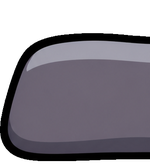
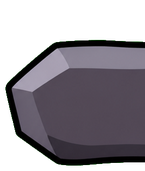
Pulsante primario gemma (WB-054), pillola della coda sotto la linea in ogni menu, schede Codex dal loro ramo (#327)
* Pillola della coda nuova sotto la linea in ogni menu; WB-054 consegnata, ritagli e prova delle tre direzioni

Claude-Session: https://claude.ai/code/session_01XmXLjmD8LDDvLAdZnP2ewS

* Pulsante primario: la gemma di WB-054; pillola della coda sotto la linea anche nello zaino e nei sigilli; schede Codex eseguite dal loro ramo

Claude-Session: https://claude.ai/code/session_01XmXLjmD8LDDvLAdZnP2ewS

---------

diff --git a/tools/grafica/fucina.py b/tools/grafica/fucina.py
@@ -398,11 +398,19 @@ def fai_menu():
         im = im.resize((w, round(im.size[1] * w / im.size[0])), Image.LANCZOS)
         salva(im, nome)
         MISURE[nome] = im.size
-    # il pulsante primario dei menu (WB-052, C · brace e gelo, Sergio 15 nov): acceso,
-    # premuto e spento, in tre parti (si allunga solo il mezzo). Alti come nel disegno
-    # rispetto all'acceso: il premuto e' piu' basso apposta
-    for stato, h in (("acceso", 200), ("premuto", 130), ("spento", 165)):
-        tre("primario_" + stato, ritaglio("WB-052", "primario_%s_1" % stato), h, 0.3)
+    # il pulsante primario dei menu: la gemma di brace di WB-054 (E, Sergio 15 nov),
+    # acceso, premuto e spento, in tre parti (si allunga solo il mezzo). Alti come nel
+    # disegno rispetto all'acceso: il premuto e' piu' basso apposta. PRIMARIO=tizzone,
+    # crosta (le altre di WB-054) o brace (la C di WB-052) per rivederne un'altra
+    scelta = os.environ.get("PRIMARIO", "gemma")
+    if scelta == "brace":
+        for stato, h in (("acceso", 200), ("premuto", 130), ("spento", 165)):
+            tre("primario_" + stato, ritaglio("WB-052", "primario_%s_1" % stato), h, 0.3)
+    else:
+        acceso_h = ritaglio("WB-054", "primario_%s_acceso" % scelta).shape[0]
+        for stato in ("acceso", "premuto", "spento"):
+            r = ritaglio("WB-054", "primario_%s_%s" % (scelta, stato))
+            tre("primario_" + stato, r, round(200 * r.shape[0] / acceso_h), 0.3)
     # le icone dei pezzi (WB-043): base e forgiata per famiglia e posto; il posto vuoto
     for f in FAMIGLIE:
         for p in POSTI:

diff --git a/docs/decisioni/interfaccia.md b/docs/decisioni/interfaccia.md
@@ -147,7 +147,7 @@ codice. Regole della roadmap: [../roadmap.md](../roadmap.md) area 21.
 
 ## Aperte
 
-- **Riorganizzazione di home, corredo, armeria, profilo, eventi e gioca online** (14 nov, Sergio). Deciso da Sergio: la sezione del diavoletto cambia nome e tiene solo INVENTARIO (etichette con linee sul corpo coi quadratini dei pezzi indossati, sotto l'inventario a quadratini filtrabile, statistiche nuove a destra) e SIGILLI; l'armeria ha lo stesso formato, l'armadio se ne va e al suo posto ci sono i potenziamenti; bottega e catalogo diventano una sola BOTTEGA (10 pezzi del giorno + 4 offerte del Fabbro scontate); i buoni del Fabbro stanno nel portafoglio dal primo; ARMERIA dalla home al posto della targhetta del diavoletto, la targhetta sopra la testa (tocca il diavoletto) e al centro sotto il filo la pillola della coda; pulsanti della home più in basso; GIOCA online dentro il lingotto; niente ombra sotto l'apprendista; un assetto per i pezzi e uno per i sigilli; STATISTICHE e CRONOLOGIA PARTITE nel profilo; EVENTI con la classifica mondiale plateale (primi 100 e i vicini), calendario e gioca; GIOCA ONLINE con tutte le modalità online del momento. Proposte (2-3 per schermata) e la consigliata a livelli veri nel Figma, sezione «RIORGANIZZAZIONE MENU · 14 nov» della pagina 3. (Claude) Nome proposto CORREDO; profilo dal tondo in alto a sinistra della home; icone dei pezzi da Codex (WB-043). Sergio (14 nov, sera) sceglie la consigliata per ogni schermata ; il nome della sezione del diavoletto è ZAINO (Sergio, 14 nov; scartati CORREDO e il nome del diavoletto); tutti i pezzi nuovi delle bozze a Codex (WB-044) e tre direzioni nuove per i pulsanti grandi della home (WB-045), che Sergio trova «troppo a cazzo di cane». Poi si rivede tutto montato nel Figma e si porta nel gioco. Pulsanti della home (Sergio, 14 nov 22:48): né A né B né C ma un misto, emblema tondo di A con coda e colori di B, senza catene; anche GIOCA online si rifà nello stesso stile, più particolare (WB-046, tre idee da scegliere). Lo scudo sta sempre verso il bordo dello schermo e al tocco trascina la schermata che si apre (Sergio, 14 nov 23:16; prova https://claude.ai/artifact/NUZURUfk3Gt2eaFpnN7roq , pezzi in WB-049). Movimento (Sergio, 23:27): parte veloce verso il bordo frenando, l'inversione al bordo è il momento più lento (quasi fermo), poi riparte accelerando; il ritorno uguale al contrario. Tutto il pulsante, coda compresa, resta attaccato al bordo della schermata come una linguetta che la trascina (Sergio, 23:29). GIOCA online: il sigillo fuso (Sergio, 23:27; scartati lama d'oro e insegna sull'incudine). Armonia degli spazi sempre e su tutto (Sergio, 23:30). Pedana del diavoletto: la griglia della forgia (WB-050 n. 4, Sergio 23:47), con lo zainetto piccolo sul ripiano; si capisce che si tocca tutto l'apprendista da tre segnali (il bordo della pedana che si accende piano ogni tanto, un riflesso di brace che corre sul suo contorno, e al tocco si schiaccia e si gira; Sergio, 23:40). Nel gioco (15 nov, Claude): GIOCA ONLINE tiene anche la coda 1 CONTRO 1 (tutte le modalità online), per ora senza icona (segnaposto); dal profilo erano usciti i momenti e il grafico a fune, ma Sergio (15 nov) vuole che le funzioni restino anche dove il Figma non ha posto: toccando una partita della cronologia si apre sotto, senza un riquadro suo, la fune giro per giro e i momenti (un tocco: il replay da lì). Sempre il 15 nov (Sergio): i pulsanti di GIOCA ONLINE sono piastre che si premono e avviano ognuno la sua coda; fra le schermate torna la tempra di fuoco e ghiaccio (la porta corre al suo bordo, la lama copre, sotto cambia la pagina) e resta solo la linguetta piatta; niente ombra tonda ai piedi dell'apprendista nei menu; INDOSSA nello zaino mette subito il pezzo addosso. Sergio sceglie dalle proposte (15 nov, https://claude.ai/artifact/3XLwcgQ67H9jBacc16g2JD): nei SIGILLI il bivio sempre in vista (sotto ogni gradino i due poteri, lo scelto chiaro e l'altro scuro, un tocco lo scambia, in basso cosa fa e l'alternativa; il punto esclamativo sui gradini raggiunti senza scelta), uno sfondo suo per ogni schermata (WB-053, le consigliate); il pulsante primario dei menu va reinventato e il sigillo fuso resta solo per GIOCA online nella home (WB-052, tre direzioni a Codex). La tendina di fuoco e ghiaccio la rifà Codex (WB-051). Poi (15 nov, Sergio) via le piastre di ferro da GIOCA ONLINE, momenti e Sigilli: tornano le carte di prima del rework (le piastre restano solo come targhe statiche e se ne andranno). La transizione con la tempra non gli piace: la coda del pulsante deve trascinarsi dentro la pagina, sfondo compreso, sopra la home ferma; il bordo della pagina è una linea arancione sottile come nella proposta, non le bande di WB-049; arrivata, la linea resta su quel bordo. Poi chiede anche la versione con la tempra (15 nov, 10:58: «è rimasta come transizione per gli altri menù»): mentre trascina, il bordo è una lama stretta coi pezzi di Codex (WB-051: rovente davanti, ferro, gelo dietro) che arrivata svanisce e lascia la linea; la tempra fra gli altri menu usa gli stessi pezzi. Provate le due (`door_pass.EDGE`), Sergio (15 nov, 11:16) tiene la tempra nuova di Codex ovunque tranne nelle quattro porte della home (CAMPAGNA, ALLENAMENTO, EVENTI, ARMERIA), che restano con la sola linea. Pulsante primario: la C di WB-052 (brace e gelo) in tutti i menu al posto del lingotto; Sergio vuole comunque altre tre proposte (WB-054: tizzone, gemma, crosta di lava). Sfondi di WB-053 nel gioco: ognuna delle otto schermate ha il suo (stanza privata e sala d'attesa quello di gioca online); la home tiene il posto della campagna. La pillola della coda nella home torna come nella proposta: al centro sotto il filo, guscio con il pallino rovente e la scritta; toccandola si torna alla sala. Ritocchi delle porte (Sergio, 15 nov, 11:28): all'andata la porta non si stacca dalla linea, la accompagna fino alla fine ed esce dal bordo dello schermo proprio mentre la linea arriva; al ritorno la porta spinge fuori la pagina e quando arriva al suo posto resta lì, con un piccolo rimbalzo verso il bordo, e la pagina va avanti da sola fino al bordo. Sopra ogni sfondo dei menu, home compresa, un velo scuro leggero (colore 0,8) perché lo sfondo non rubi la scena (Sergio, 15 nov, 11:35).
+- **Riorganizzazione di home, corredo, armeria, profilo, eventi e gioca online** (14 nov, Sergio). Deciso da Sergio: la sezione del diavoletto cambia nome e tiene solo INVENTARIO (etichette con linee sul corpo coi quadratini dei pezzi indossati, sotto l'inventario a quadratini filtrabile, statistiche nuove a destra) e SIGILLI; l'armeria ha lo stesso formato, l'armadio se ne va e al suo posto ci sono i potenziamenti; bottega e catalogo diventano una sola BOTTEGA (10 pezzi del giorno + 4 offerte del Fabbro scontate); i buoni del Fabbro stanno nel portafoglio dal primo; ARMERIA dalla home al posto della targhetta del diavoletto, la targhetta sopra la testa (tocca il diavoletto) e al centro sotto il filo la pillola della coda; pulsanti della home più in basso; GIOCA online dentro il lingotto; niente ombra sotto l'apprendista; un assetto per i pezzi e uno per i sigilli; STATISTICHE e CRONOLOGIA PARTITE nel profilo; EVENTI con la classifica mondiale plateale (primi 100 e i vicini), calendario e gioca; GIOCA ONLINE con tutte le modalità online del momento. Proposte (2-3 per schermata) e la consigliata a livelli veri nel Figma, sezione «RIORGANIZZAZIONE MENU · 14 nov» della pagina 3. (Claude) Nome proposto CORREDO; profilo dal tondo in alto a sinistra della home; icone dei pezzi da Codex (WB-043). Sergio (14 nov, sera) sceglie la consigliata per ogni schermata ; il nome della sezione del diavoletto è ZAINO (Sergio, 14 nov; scartati CORREDO e il nome del diavoletto); tutti i pezzi nuovi delle bozze a Codex (WB-044) e tre direzioni nuove per i pulsanti grandi della home (WB-045), che Sergio trova «troppo a cazzo di cane». Poi si rivede tutto montato nel Figma e si porta nel gioco. Pulsanti della home (Sergio, 14 nov 22:48): né A né B né C ma un misto, emblema tondo di A con coda e colori di B, senza catene; anche GIOCA online si rifà nello stesso stile, più particolare (WB-046, tre idee da scegliere). Lo scudo sta sempre verso il bordo dello schermo e al tocco trascina la schermata che si apre (Sergio, 14 nov 23:16; prova https://claude.ai/artifact/NUZURUfk3Gt2eaFpnN7roq , pezzi in WB-049). Movimento (Sergio, 23:27): parte veloce verso il bordo frenando, l'inversione al bordo è il momento più lento (quasi fermo), poi riparte accelerando; il ritorno uguale al contrario. Tutto il pulsante, coda compresa, resta attaccato al bordo della schermata come una linguetta che la trascina (Sergio, 23:29). GIOCA online: il sigillo fuso (Sergio, 23:27; scartati lama d'oro e insegna sull'incudine). Armonia degli spazi sempre e su tutto (Sergio, 23:30). Pedana del diavoletto: la griglia della forgia (WB-050 n. 4, Sergio 23:47), con lo zainetto piccolo sul ripiano; si capisce che si tocca tutto l'apprendista da tre segnali (il bordo della pedana che si accende piano ogni tanto, un riflesso di brace che corre sul suo contorno, e al tocco si schiaccia e si gira; Sergio, 23:40). Nel gioco (15 nov, Claude): GIOCA ONLINE tiene anche la coda 1 CONTRO 1 (tutte le modalità online), per ora senza icona (segnaposto); dal profilo erano usciti i momenti e il grafico a fune, ma Sergio (15 nov) vuole che le funzioni restino anche dove il Figma non ha posto: toccando una partita della cronologia si apre sotto, senza un riquadro suo, la fune giro per giro e i momenti (un tocco: il replay da lì). Sempre il 15 nov (Sergio): i pulsanti di GIOCA ONLINE sono piastre che si premono e avviano ognuno la sua coda; fra le schermate torna la tempra di fuoco e ghiaccio (la porta corre al suo bordo, la lama copre, sotto cambia la pagina) e resta solo la linguetta piatta; niente ombra tonda ai piedi dell'apprendista nei menu; INDOSSA nello zaino mette subito il pezzo addosso. Sergio sceglie dalle proposte (15 nov, https://claude.ai/artifact/3XLwcgQ67H9jBacc16g2JD): nei SIGILLI il bivio sempre in vista (sotto ogni gradino i due poteri, lo scelto chiaro e l'altro scuro, un tocco lo scambia, in basso cosa fa e l'alternativa; il punto esclamativo sui gradini raggiunti senza scelta), uno sfondo suo per ogni schermata (WB-053, le consigliate); il pulsante primario dei menu va reinventato e il sigillo fuso resta solo per GIOCA online nella home (WB-052, tre direzioni a Codex). La tendina di fuoco e ghiaccio la rifà Codex (WB-051). Poi (15 nov, Sergio) via le piastre di ferro da GIOCA ONLINE, momenti e Sigilli: tornano le carte di prima del rework (le piastre restano solo come targhe statiche e se ne andranno). La transizione con la tempra non gli piace: la coda del pulsante deve trascinarsi dentro la pagina, sfondo compreso, sopra la home ferma; il bordo della pagina è una linea arancione sottile come nella proposta, non le bande di WB-049; arrivata, la linea resta su quel bordo. Poi chiede anche la versione con la tempra (15 nov, 10:58: «è rimasta come transizione per gli altri menù»): mentre trascina, il bordo è una lama stretta coi pezzi di Codex (WB-051: rovente davanti, ferro, gelo dietro) che arrivata svanisce e lascia la linea; la tempra fra gli altri menu usa gli stessi pezzi. Provate le due (`door_pass.EDGE`), Sergio (15 nov, 11:16) tiene la tempra nuova di Codex ovunque tranne nelle quattro porte della home (CAMPAGNA, ALLENAMENTO, EVENTI, ARMERIA), che restano con la sola linea. Pulsante primario: la C di WB-052 (brace e gelo) in tutti i menu al posto del lingotto; Sergio vuole comunque altre tre proposte (WB-054: tizzone, gemma, crosta di lava). Sfondi di WB-053 nel gioco: ognuna delle otto schermate ha il suo (stanza privata e sala d'attesa quello di gioca online); la home tiene il posto della campagna. La pillola della coda nella home torna come nella proposta: al centro sotto il filo, guscio con il pallino rovente e la scritta; toccandola si torna alla sala. Ritocchi delle porte (Sergio, 15 nov, 11:28): all'andata la porta non si stacca dalla linea, la accompagna fino alla fine ed esce dal bordo dello schermo proprio mentre la linea arriva; al ritorno la porta spinge fuori la pagina e quando arriva al suo posto resta lì, con un piccolo rimbalzo verso il bordo, e la pagina va avanti da sola fino al bordo. Sopra ogni sfondo dei menu, home compresa, un velo scuro leggero (colore 0,8) perché lo sfondo non rubi la scena (Sergio, 15 nov, 11:35). Pulsante primario (Sergio, 15 nov, 12:34): fra le tre direzioni di WB-054 sceglie la E · gemma di brace, che prende il posto della C di WB-052 in tutti i menu. Pillola della coda (Sergio, 15 nov, 12:20: «sempre quella nuova e sempre nella posizione nuova sotto la linea»): in ogni menu c'è la stessa pillola della home in versione corta (pallino rovente e tempo), sotto la linea un po' a sinistra del centro; mentre sei in coda, le righe in basso di zaino e sigilli vanno a capo a sinistra della pillola (Sergio d'accordo, 12:34). Schede Codex (Sergio, 15 nov, 12:36): Codex le esegue dal ramo da cui arrivano, non serve portarle su main.
 
 - **Sfondi dei menu con profondità** (12 nov, Sergio: gli sfondi a linee di WB-023/025 sono «molto cheap», non coerenti coi pezzi; vuole profondità, uno stile «più premium» e coerenza con la storia, proposte fatte dopo aver studiato come si fanno nei giochi mobile). Proposte in https://claude.ai/artifact/8Vtj3sQas5mHQry8eD7Myo (sorgenti in `/mnt/project-files/sfondi_premium/`): ogni menu è un posto della storia (soglia della Forgia, banco del Fabbro, orlo del pozzo, Cortile...), tre piani senza contorni neri, fornace in basso a sinistra e gelo di Lucifero che entra dall'alto a destra. Tre strade: A dipinto a strati (consigliata da Claude), B teatro di carta, C solo luce. Prova di stile a Codex: WB-027 (approvata da Claude, quattro immagini, non entra nel gioco). Sceglie Sergio. **12 nov, dopo WB-027:** Sergio sceglie lo sfondo dei gironi come modello («è molto bello quello») e vuole meno dettagli nella home («il centro di attenzione diventa quell'incudine»): niente oggetti, solo grandi masse ai lati, centro vuoto; strada B scartata. Tutte le altre schermate rifatte così con WB-028. **Approvati** (Sergio, 12 nov: «ok, mi piace») gli otto sfondi di WB-028 più quello dei gironi, e i riflessi che ogni tanto corrono sui bordi di luce («con poca frequenza, ma li renderebbe più vivi»). Restano da montare nel gioco (thread dell'interfaccia).
 

diff --git a/docs/handoff/WB-054_pulsante_primario_altre_proposte.md b/docs/handoff/WB-054_pulsante_primario_altre_proposte.md
@@ -1,6 +1,6 @@
 # WB-054 · Altre tre direzioni per il pulsante primario dei menu
 
-- **Stato:** APPROVATA (Sergio, 15 nov 11:10: «Per i pulsanti primari, va bene quello che ho scelto, integralo, però voglio delle altre proposte con codex»)
+- **Stato:** CONSEGNATA E INTEGRATA (Sergio, 15 nov 12:34: sceglie E · gemma)
 - **Data:** 2026-11-15
 - **Ramo della scheda:** `main` · **Ramo delle immagini:** `design/WB-054`
 - **Autorizzato:** pubblica PNG, prompt e scheda sul ramo `design/WB-054` senza chiedere conferma (il repository è privato).
@@ -114,3 +114,10 @@ Thick black ink outline on every piece, cartoon comic style like images 2 and 3.
 ## Decisione
 
 Reversibile (solo immagini in un ramo): approvata su richiesta di Sergio.
+
+## Resoconto di Claude
+
+- Arrivati i sei fogli (due varianti per direzione), tutti puliti: acceso, premuto e spento ben staccati, sfondo verde pieno, niente scritte.
+- Ritagliati `primario_tizzone_2`, `primario_gemma_2` e `primario_crosta_1` (le varianti con le proporzioni più vicine a tre e mezzo per uno) in `art/WB-054/ritagli/`.
+- Montati nel gioco vero accanto alla C di WB-052 su armeria, zaino e gioca online (`/mnt/project-files/menu_14nov/WB-054_confronto_primari.png`).
+- Sergio sceglie la **E · gemma**: ora è il pulsante primario di tutti i menu (`tools/grafica/fucina.py`; `PRIMARIO=tizzone`, `crosta` o `brace` per rivedere le altre).

diff --git a/CLAUDE.md b/CLAUDE.md
@@ -270,8 +270,8 @@ lanciato prima, se no in una PR subito dopo).
 Le immagini le genera Codex (ChatGPT) sul PC di Sergio, dai prompt che scrive Claude: niente
 copia e incolla. Claude scrive una scheda in [docs/handoff/](docs/handoff/README.md) dal
 [modello](docs/handoff/MODELLO.md), con ogni prompt completo, i riferimenti e i nomi dei file;
-la approva se è reversibile (altrimenti chiede a Sergio) e la porta su `main` (solo
-documenti e riferimenti, così Codex la trova). Codex la esegue
+la approva se è reversibile (altrimenti chiede a Sergio), fa il push sul suo ramo e dice
+a Sergio il nome del ramo: Codex la esegue da lì, non serve portarla su `main` (Sergio, 15 nov). Codex la esegue
 seguendo [AGENTS.md](AGENTS.md) e fa il push sul ramo `design/WB-xxx`. Poi Claude fa
 `git fetch origin`, guarda ogni immagine in `art/WB-xxx/`, scarta quelle con difetti visibili,
 integra le buone, gira la simulazione e scrive il "Resoconto di Claude". Le decisioni prese da

diff --git a/AGENTS.md b/AGENTS.md
@@ -14,8 +14,11 @@ Sergio ti dice solo quale scheda eseguire (es. "esegui WB-001").
 
 ## Come esegui una scheda
 
-1. Aggiorna `main` (`git checkout main` e `git pull`) e prendi lì la scheda; se Sergio
-   ti indica un altro ramo, usa quello. Eseguila solo se lo stato è APPROVATA.
+1. Esegui la scheda dal ramo da cui arriva, che non è per forza `main` (Sergio, 15 nov:
+   di solito è ancora una prova). Il ramo è scritto in testa alla scheda («Ramo della
+   scheda») o te lo dice Sergio: `git fetch origin <ramo>` e `git checkout <ramo>`. Se non
+   lo sai, cercalo: `git fetch origin` e `git log --all --oneline -- "docs/handoff/WB-xxx*"`.
+   Eseguila solo se lo stato è APPROVATA.
    **Se la scheda non ha la fase o le immagini che ti chiedono** (per esempio "fase 3" e nella
    tabella non ci sono righe di fase 3), fermati: non improvvisare e non fare il lavoro di
    Claude (ricalchi, script, editor). Scrivi nella consegna cosa mancava e fai solo il push.

diff --git a/docs/handoff/README.md b/docs/handoff/README.md
@@ -11,7 +11,8 @@ copiata da [MODELLO.md](MODELLO.md). Le regole di Codex sono in [AGENTS.md](../.
    Stato PROPOSTA.
 2. **Si decide**: Claude approva da solo le schede ragionevoli e reversibili (e lo scrive),
    le altre le decide Sergio. Stato APPROVATA. Claude fa il commit e il push della scheda.
-3. **Codex genera**: Sergio gli dice "esegui WB-xxx". Codex genera tutto in `art/WB-xxx/`,
+3. **Codex genera**: Sergio gli dice "esegui WB-xxx" (e il ramo della scheda: Codex la
+   prende da lì, non serve che sia su `main`, Sergio 15 nov). Codex genera tutto in `art/WB-xxx/`,
    scrive la consegna, fa il commit sul ramo `design/WB-xxx` e il push. Stato GENERATA.
 4. **Claude rivede e integra**: guarda le immagini, scarta quelle con difetti (e se serve
    aggiunge una scheda nuova coi prompt corretti), taglia e integra quelle buone, gira la

diff --git a/docs/decisioni/cronologia.md b/docs/decisioni/cronologia.md
@@ -272,3 +272,4 @@ Un rigo per giorno e per PR. I dettagli stanno nei file delle aree.
 | 15 nov | Sfondi di WB-053 nel gioco: uno per schermata (zaino, armeria, profilo, eventi, gioca online, campagna, allenamento, impostazioni); la home tiene il posto della campagna. | questa PR |
 | 15 nov | Sergio: porte della home, all'andata la porta accompagna la linea fino alla fine; al ritorno si ferma al suo posto con un piccolo rimbalzo e la pagina va avanti da sola fino al bordo. | questa PR |
 | 15 nov | Sergio: un velo scuro leggero sopra ogni sfondo dei menu, perché non rubi la scena. | questa PR |
+| 15 nov | Sergio: pulsante primario E · gemma (WB-054) in tutti i menu; la pillola della coda nuova sotto la linea in ogni menu; le schede Codex si eseguono dal loro ramo, non serve main. | questa PR |

diff --git a/docs/handoff/MODELLO.md b/docs/handoff/MODELLO.md
@@ -2,7 +2,7 @@
 
 - **Stato:** PROPOSTA (poi APPROVATA, GENERATA, IMPLEMENTATA, VERIFICATA, oppure SCARTATA)
 - **Data:** AAAA-MM-GG
-- **Ramo della scheda:** `main` · **Ramo delle immagini:** `design/WB-xxx`
+- **Ramo della scheda:** `claude/...` (il ramo dove Claude l'ha scritta: Codex la esegue da lì, non serve che sia su `main`) · **Ramo delle immagini:** `design/WB-xxx`
 - **Autorizzato:** pubblica PNG, prompt e scheda sul ramo `design/WB-xxx` senza chiedere conferma (il repository è privato).
 
 ## Obiettivo
